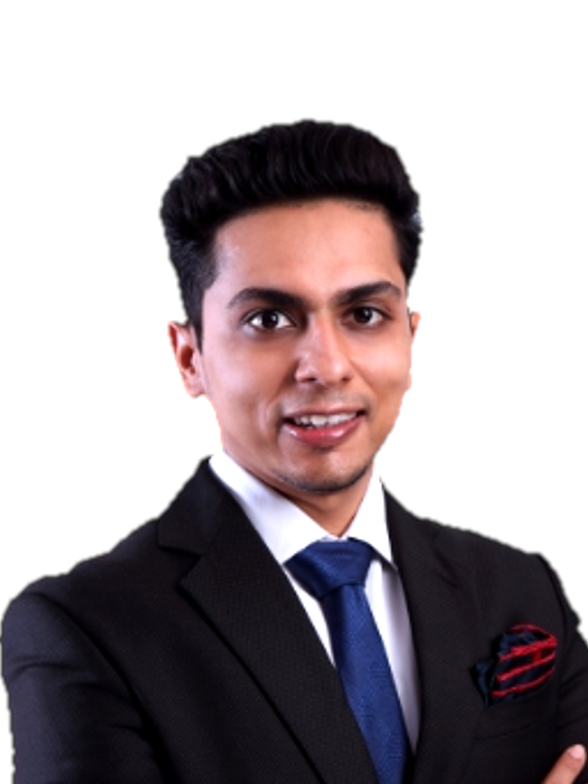
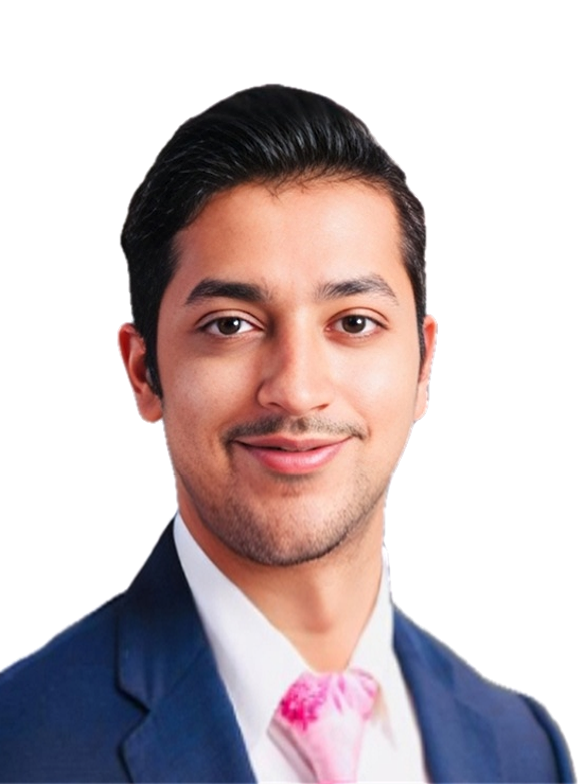
Use the client's updated portraits for Ankit Agarwal and Suresh Nanda
Both are cut out with macOS Vision, cleared of their own grey and white
grounds at the edge, and set on the mentor card's framing with the face
the same size and on the same line as the rest of the board.

diff --git a/src/content/home.ts b/src/content/home.ts
@@ -577,10 +577,9 @@ export const mentorsIntro = {
  *
  * The photographs are the client's "Photos of Mentors" folder on Drive
  * where that folder had a usable one, and the web where it did not. Suresh
- * Nanda's Drive copy was a 301px thumbnail, too soft to fill a card; his is
- * the headshot on UV Capital's site (uvcapital.in), 729 × 994. Ankit
- * Agarwal's is his portrait on Globe Capital's own site (globecapital.com),
- * 388 × 486, arms folded, which is the only size it is published at.
+ * Nanda's and Ankit Agarwal's are the updated portraits the client sent
+ * directly (Mr. Nanda's is 632 × 600, so it is enlarged about twice on the
+ * card).
  * Deepak Chitnis's official Lodha Group portrait is the same 375px file
  * Drive already had, and nothing larger is published. Bony Niranjan Dalal
  * has no photograph online at all, so his is still Drive's conference
